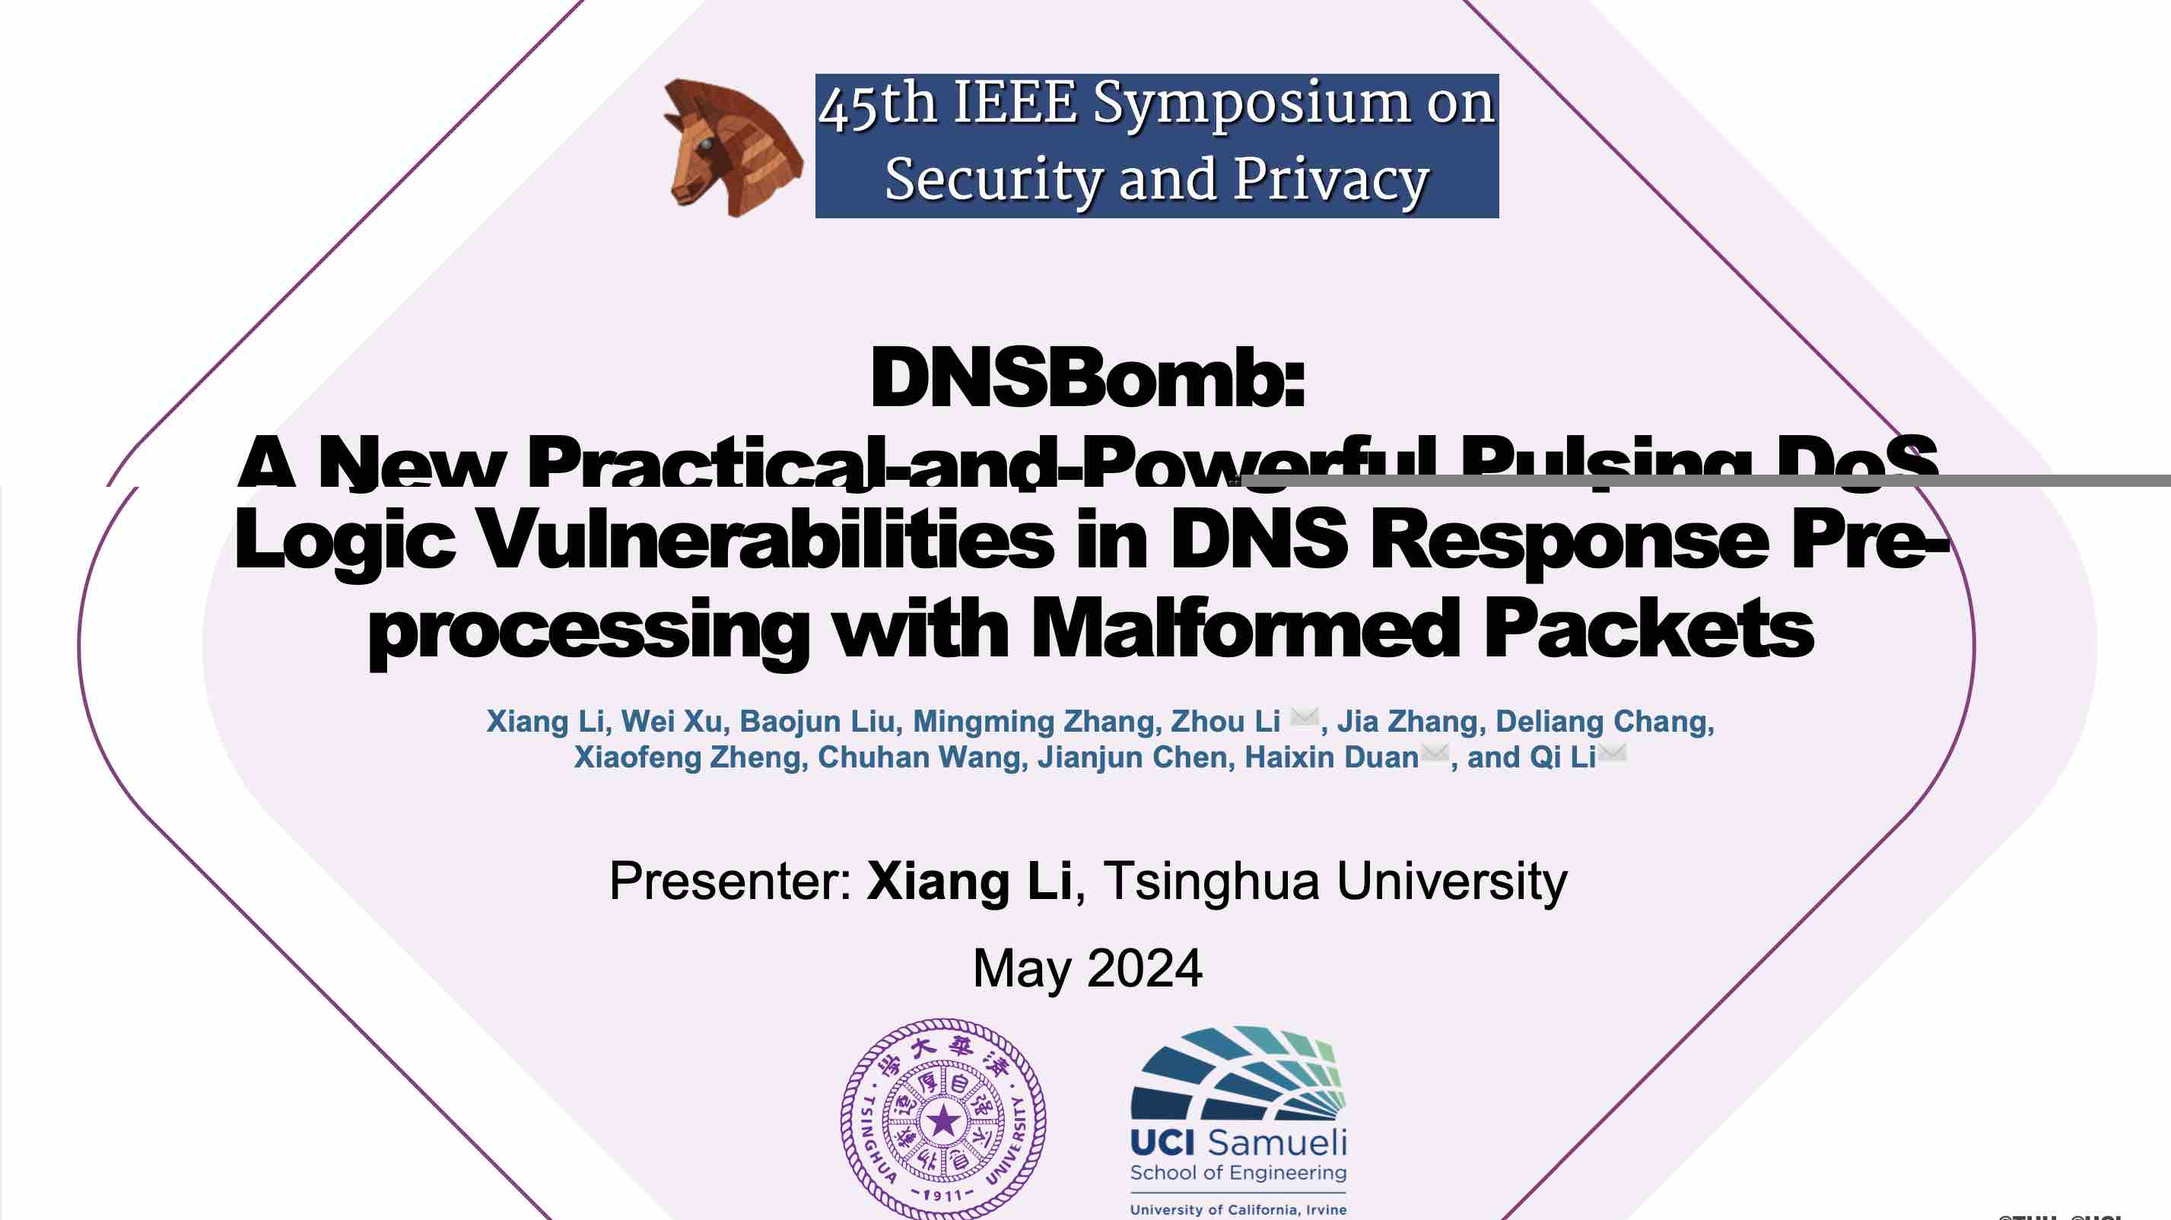
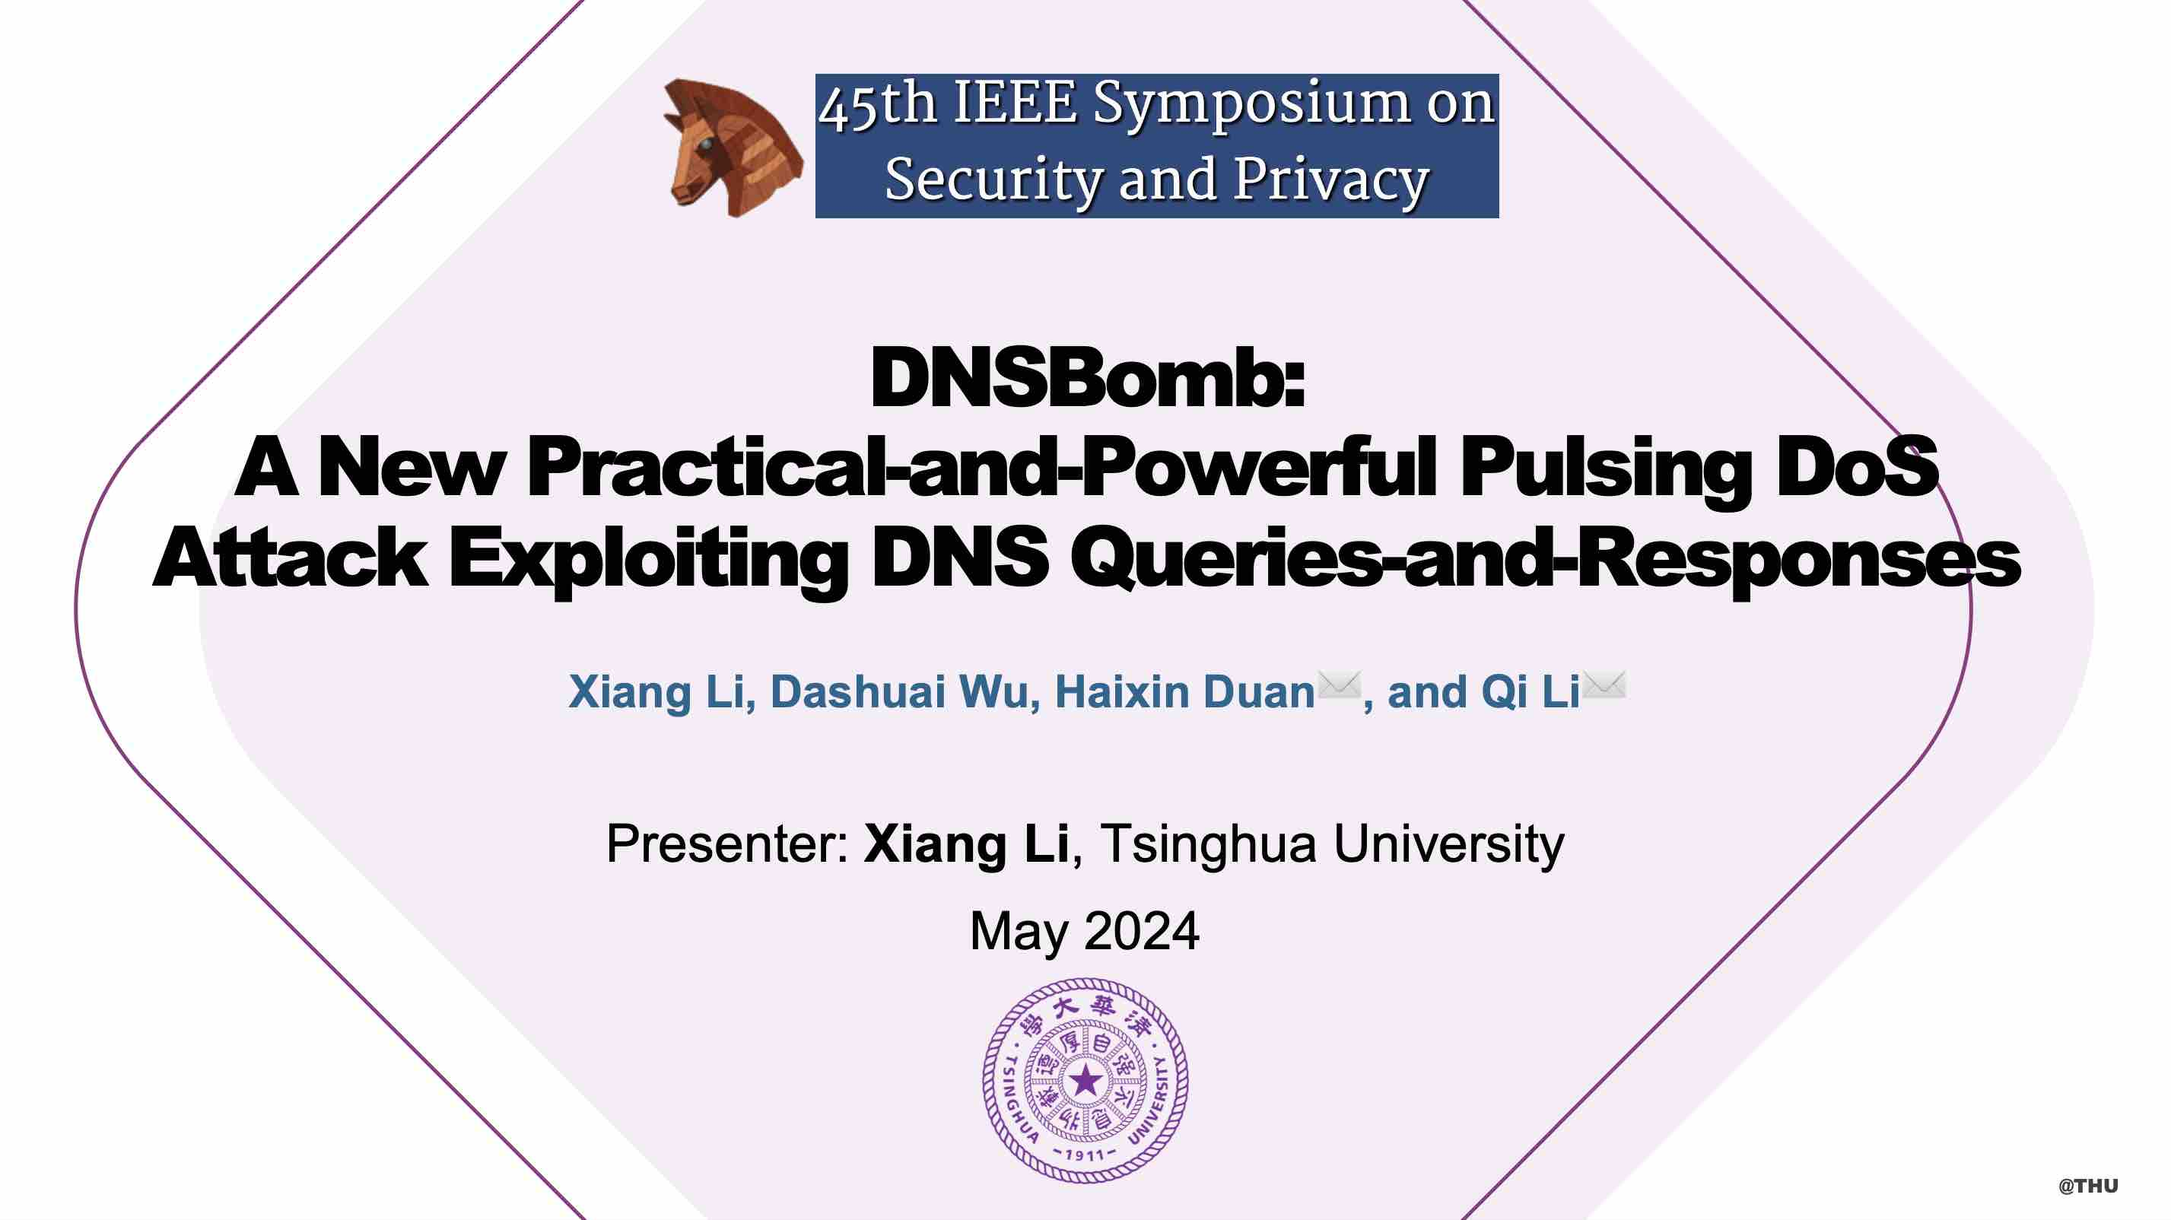
update pub. stat.

diff --git a/talk/45th-ieee-symposium-on-security-and-privacy-2024-ieee-sp-2024/index.html b/talk/45th-ieee-symposium-on-security-and-privacy-2024-ieee-sp-2024/index.html
@@ -272,7 +272,7 @@
 
   
 
-<meta name="description" content="In [45th IEEE Symposium on Security and Privacy 2024](https://sp2024.ieee-security.org/index.html), Fenglu presented our novel TuDoor attack on behalf of me cause I couldn&#39;t make it there." />
+<meta name="description" content="In [45th IEEE Symposium on Security and Privacy 2024](https://sp2024.ieee-security.org/index.html), Fenglu presented our novel DNSBomb attack on behalf of me cause I couldn&#39;t make it there." />
 
 
 
@@ -316,7 +316,7 @@
 <meta property="og:site_name" content="Xiang Li | 李想" />
 <meta property="og:url" content="https://lixiang521.com/talk/45th-ieee-symposium-on-security-and-privacy-2024-ieee-sp-2024/" />
 <meta property="og:title" content="45th IEEE Symposium on Security and Privacy 2024 | IEEE S&amp;P 2024 | Xiang Li | 李想" />
-<meta property="og:description" content="In [45th IEEE Symposium on Security and Privacy 2024](https://sp2024.ieee-security.org/index.html), Fenglu presented our novel TuDoor attack on behalf of me cause I couldn&#39;t make it there." /><meta property="og:image" content="https://lixiang521.com/talk/45th-ieee-symposium-on-security-and-privacy-2024-ieee-sp-2024/featured.jpg" /><meta property="og:locale" content="en-us" />
+<meta property="og:description" content="In [45th IEEE Symposium on Security and Privacy 2024](https://sp2024.ieee-security.org/index.html), Fenglu presented our novel DNSBomb attack on behalf of me cause I couldn&#39;t make it there." /><meta property="og:image" content="https://lixiang521.com/talk/45th-ieee-symposium-on-security-and-privacy-2024-ieee-sp-2024/featured.jpg" /><meta property="og:locale" content="en-us" />
 
   
     <meta
@@ -379,7 +379,7 @@
     "name": "Fenglu Zhang"
   },
   
-  "description": "In [45th IEEE Symposium on Security and Privacy 2024](https://sp2024.ieee-security.org/index.html), Fenglu presented our novel TuDoor attack on behalf of me cause I couldn't make it there."
+  "description": "In [45th IEEE Symposium on Security and Privacy 2024](https://sp2024.ieee-security.org/index.html), Fenglu presented our novel DNSBomb attack on behalf of me cause I couldn't make it there."
 }
 </script>
 
@@ -419,7 +419,7 @@
 </head>
 
 
-<body id="top" data-spy="scroll" data-offset="70" data-target="#TableOfContents" class="page-wrapper   " data-wc-page-id="e05079f5c464b403ce018a56a32de18e" >
+<body id="top" data-spy="scroll" data-offset="70" data-target="#TableOfContents" class="page-wrapper   " data-wc-page-id="06ce02b55c8dddf7d39f9a7a09b5051d" >
 
   
   
@@ -947,7 +947,7 @@
 
 
 
-<a class="btn btn-outline-primary btn-page-header" href="/publication/oakland24/sp24spring-tudoor-li.pdf" target="_blank" rel="noopener">
+<a class="btn btn-outline-primary btn-page-header" href="/publication/oakland24/sp24spring-dnsbomb-li.pdf" target="_blank" rel="noopener">
   PDF
 </a>
 
@@ -963,7 +963,7 @@
   
     
   
-<a class="btn btn-outline-primary btn-page-header" href="/publication/oakland24/sp2024-tudoor-poster.pdf" target="_blank" rel="noopener">
+<a class="btn btn-outline-primary btn-page-header" href="/publication/oakland24/sp2024-dnsbomb-poster.pdf" target="_blank" rel="noopener">
   Poster
 </a>
 
@@ -973,7 +973,7 @@
   
     
   
-<a class="btn btn-outline-primary btn-page-header" href="/publication/oakland24/sp2024-tudoor-slides.pdf" target="_blank" rel="noopener">
+<a class="btn btn-outline-primary btn-page-header" href="/publication/oakland24/sp2024-dnsbomb-slides.pdf" target="_blank" rel="noopener">
   Slides
 </a>
 
@@ -1003,9 +1003,9 @@
 </div>
 
 
-<div class="article-header article-container featured-image-wrapper mt-4 mb-4" style="max-width: 720px; max-height: 404px;">
+<div class="article-header article-container featured-image-wrapper mt-4 mb-4" style="max-width: 720px; max-height: 405px;">
   <div style="position: relative">
-    <img src="/talk/45th-ieee-symposium-on-security-and-privacy-2024-ieee-sp-2024/featured_huc82d7b839fc53b7a5c86bd3cdfedcac6_184831_720x2500_fit_q75_h2_lanczos.webp" width="720" height="404" alt="" class="featured-image">
+    <img src="/talk/45th-ieee-symposium-on-security-and-privacy-2024-ieee-sp-2024/featured_huc82d7b839fc53b7a5c86bd3cdfedcac6_161243_720x2500_fit_q75_h2_lanczos.webp" width="720" height="405" alt="" class="featured-image">
     
   </div>
 </div>
@@ -1016,7 +1016,7 @@
 
     
       <h3>Abstract</h3>
-      <p class="pub-abstract">DNS can be compared to a game of chess in that its rules are simple, yet the possibilities it presents are endless. While the fundamental rules of DNS are straightforward, DNS implementations can be extremely complex. In this study, we intend to explore the complexities and vulnerabilities in DNS response pre-processing by systematically analyzing DNS RFCs and DNS software implementations. We present the discovery of three new types of logic vulnerabilities, leading to the proposal of three novel attacks, namely the TuDoor attack. These attacks involve the use of malformed DNS response packets to carry out DNS cache poisoning, denial-of-service, and resource consuming attacks. By performing comprehensive experiments, we demonstrate the attack&rsquo;s feasibility and significant real-world impacts of TuDoor. In total, 24 mainstream DNS software, including BIND, PowerDNS, and Microsoft DNS, are affected by TuDoor. Attackers can instigate cache poisoning and denial-of-service attacks against vulnerable resolvers using a handful of crafted packets within 1 second or circumvent the query limit to deplete resolution resources (e.g., CPU). Besides, to determine the vulnerable resolver population in the wild, we collect and evaluate 16 popular Wi-Fi routers, 6 prevalent router OSes, 42 public DNS services, and around 1.8M open DNS resolvers. Our measurement results indicate that TuDoor could exploit 7 routers (OSes), 18 public DNS services, and 424,652 (23.1%) open DNS resolvers. Following the best practice of responsible disclosure, we have reported these vulnerabilities to all affected vendors, and 18 of them, including BIND, Chrome, Cloudflare, and Microsoft, have acknowledged our findings and discussed mitigation solutions with us. Furthermore, 33 CVE IDs are assigned to our discovered vulnerabilities, and we provide an online detection tool as one of the mitigation measures. Our research highlights the urgent need for standardization of DNS response pre-processing logic to enhance the security of DNS.</p>
+      <p class="pub-abstract">DNS employs a variety of mechanisms to guarantee availability, protect security, and enhance reliability. In this paper, however, we reveal that these inherent beneficial mechanisms, including timeout, query aggregation, and response fast-returning, can be transformed into malicious attack vectors. We propose a new practical and powerful pulsing DoS attack, dubbed the DNSBomb attack. DNSBomb exploits multiple widely-implemented DNS mechanisms to accumulate DNS queries that are sent at a low rate, amplify queries into large-sized responses, and concentrate all DNS responses into a short, high-volume periodic pulsing burst to simultaneously overwhelm target systems. Through an extensive evaluation on 10 mainstream DNS software, 46 public DNS services, and around 1.8M open DNS resolvers, we demonstrate all DNS resolvers could be exploited to conduct more practical-and-powerful DNSBomb attacks than previous pulsing DoS atttacks. Small-scale experiments show the peak pulse magnitude can approach 8.7Gb/s and the bandwidth amplification factor could exceed 20,000x. Our controlled attacks cause complete packet loss or service degradation on both stateless and stateful connections (TCP, UDP, and QUIC). In addition, we present effective mitigation solutions with detailed evaluations. We have responsibly reported our findings to all affected vendors, and received acknowledgement from 24 of them, which are patching their software using our solutions, such as BIND, Unbound, PowerDNS, and Knot. 10 CVE-IDs are assigned.</p>
     
 
     <div class="row">
@@ -1072,7 +1072,7 @@
     <div class="space-below"></div>
 
     <div class="article-style">
-      <p>In <a href="https://sp2024.ieee-security.org/index.html" target="_blank" rel="noopener">45th IEEE Symposium on Security and Privacy 2024</a>, Fenglu presented our novel TuDoor attack on behalf of me cause I couldn&rsquo;t make it there.</p>
+      <p>In <a href="https://sp2024.ieee-security.org/index.html" target="_blank" rel="noopener">45th IEEE Symposium on Security and Privacy 2024</a>, Fenglu presented our novel DNSBomb attack on behalf of me cause I couldn&rsquo;t make it there.</p>
 <h3 id="feedback-from-the-site">Feedback from the site</h3>
 <p>impressive! unbelievable! amazing!</p>
 
@@ -1444,6 +1444,40 @@
       </div>
       <div class="modal-footer">
         <a class="btn btn-outline-primary my-1 js-copy-cite" href="#" target="_blank">
+          <i class="fas fa-copy"></i> Copy
+        </a>
+        <a class="btn btn-outline-primary my-1 js-download-cite" href="#" target="_blank">
+          <i class="fas fa-download"></i> Download
+        </a>
+        <div id="modal-error"></div>
+      </div>
+    </div>
+  </div>
+</div>
+
+
+  <script src="/js/wowchemy-publication.68f8d7090562ca65fc6d3cb3f8f2d2cb.js" type="module"></script>
+
+
+
+
+
+
+
+
+
+
+
+
+
+
+
+
+
+
+</body>
+</html>
+="btn btn-outline-primary my-1 js-copy-cite" href="#" target="_blank">
           <i class="fas fa-copy"></i> Copy
         </a>
         <a class="btn btn-outline-primary my-1 js-download-cite" href="#" target="_blank">

diff --git a/zh/talk/45th-ieee-symposium-on-security-and-privacy-2024-ieee-sp-2024/index.html b/zh/talk/45th-ieee-symposium-on-security-and-privacy-2024-ieee-sp-2024/index.html
@@ -272,7 +272,7 @@
 
   
 
-<meta name="description" content="在[45th IEEE Symposium on Security and Privacy 2024](https://sp2024.ieee-security.org/index.html)会议上，丰露代替我汇报了TuDoor攻击。十分感谢！" />
+<meta name="description" content="在[45th IEEE Symposium on Security and Privacy 2024](https://sp2024.ieee-security.org/index.html)会议上，丰露代替我汇报了DNSBomb攻击。十分感谢！" />
 
 
 
@@ -316,7 +316,7 @@
 <meta property="og:site_name" content="李想 | Xiang Li" />
 <meta property="og:url" content="https://lixiang521.com/zh/talk/45th-ieee-symposium-on-security-and-privacy-2024-ieee-sp-2024/" />
 <meta property="og:title" content="45th IEEE Symposium on Security and Privacy 2024 | IEEE S&amp;P 2024 | 李想 | Xiang Li" />
-<meta property="og:description" content="在[45th IEEE Symposium on Security and Privacy 2024](https://sp2024.ieee-security.org/index.html)会议上，丰露代替我汇报了TuDoor攻击。十分感谢！" /><meta property="og:image" content="https://lixiang521.com/zh/talk/45th-ieee-symposium-on-security-and-privacy-2024-ieee-sp-2024/featured.jpg" /><meta property="og:locale" content="zh-Hans" />
+<meta property="og:description" content="在[45th IEEE Symposium on Security and Privacy 2024](https://sp2024.ieee-security.org/index.html)会议上，丰露代替我汇报了DNSBomb攻击。十分感谢！" /><meta property="og:image" content="https://lixiang521.com/zh/talk/45th-ieee-symposium-on-security-and-privacy-2024-ieee-sp-2024/featured.jpg" /><meta property="og:locale" content="zh-Hans" />
 
   
     <meta
@@ -379,7 +379,7 @@
     "name": "Fenglu Zhang"
   },
   
-  "description": "在[45th IEEE Symposium on Security and Privacy 2024](https://sp2024.ieee-security.org/index.html)会议上，丰露代替我汇报了TuDoor攻击。十分感谢！"
+  "description": "在[45th IEEE Symposium on Security and Privacy 2024](https://sp2024.ieee-security.org/index.html)会议上，丰露代替我汇报了DNSBomb攻击。十分感谢！"
 }
 </script>
 
@@ -419,7 +419,7 @@
 </head>
 
 
-<body id="top" data-spy="scroll" data-offset="70" data-target="#TableOfContents" class="page-wrapper   " data-wc-page-id="e05079f5c464b403ce018a56a32de18e" >
+<body id="top" data-spy="scroll" data-offset="70" data-target="#TableOfContents" class="page-wrapper   " data-wc-page-id="06ce02b55c8dddf7d39f9a7a09b5051d" >
 
   
   
@@ -947,7 +947,7 @@
 
 
 
-<a class="btn btn-outline-primary btn-page-header" href="/publication/oakland24/sp24spring-tudoor-li.pdf" target="_blank" rel="noopener">
+<a class="btn btn-outline-primary btn-page-header" href="/publication/oakland24/sp24spring-dnsbomb-li.pdf" target="_blank" rel="noopener">
   PDF
 </a>
 
@@ -963,7 +963,7 @@
   
     
   
-<a class="btn btn-outline-primary btn-page-header" href="/publication/oakland24/sp2024-tudoor-poster.pdf" target="_blank" rel="noopener">
+<a class="btn btn-outline-primary btn-page-header" href="/publication/oakland24/sp2024-dnsbomb-poster.pdf" target="_blank" rel="noopener">
   海报
 </a>
 
@@ -973,7 +973,7 @@
   
     
   
-<a class="btn btn-outline-primary btn-page-header" href="/publication/oakland24/sp2024-tudoor-slides.pdf" target="_blank" rel="noopener">
+<a class="btn btn-outline-primary btn-page-header" href="/publication/oakland24/sp2024-dnsbomb-slides.pdf" target="_blank" rel="noopener">
   演示文稿
 </a>
 
@@ -1003,9 +1003,9 @@
 </div>
 
 
-<div class="article-header article-container featured-image-wrapper mt-4 mb-4" style="max-width: 720px; max-height: 404px;">
+<div class="article-header article-container featured-image-wrapper mt-4 mb-4" style="max-width: 720px; max-height: 405px;">
   <div style="position: relative">
-    <img src="/zh/talk/45th-ieee-symposium-on-security-and-privacy-2024-ieee-sp-2024/featured_huc82d7b839fc53b7a5c86bd3cdfedcac6_184831_720x2500_fit_q75_h2_lanczos.webp" width="720" height="404" alt="" class="featured-image">
+    <img src="/zh/talk/45th-ieee-symposium-on-security-and-privacy-2024-ieee-sp-2024/featured_huc82d7b839fc53b7a5c86bd3cdfedcac6_161243_720x2500_fit_q75_h2_lanczos.webp" width="720" height="405" alt="" class="featured-image">
     
   </div>
 </div>
@@ -1016,7 +1016,7 @@
 
     
       <h3>摘要</h3>
-      <p class="pub-abstract">DNS can be compared to a game of chess in that its rules are simple, yet the possibilities it presents are endless. While the fundamental rules of DNS are straightforward, DNS implementations can be extremely complex. In this study, we intend to explore the complexities and vulnerabilities in DNS response pre-processing by systematically analyzing DNS RFCs and DNS software implementations. We present the discovery of three new types of logic vulnerabilities, leading to the proposal of three novel attacks, namely the TuDoor attack. These attacks involve the use of malformed DNS response packets to carry out DNS cache poisoning, denial-of-service, and resource consuming attacks. By performing comprehensive experiments, we demonstrate the attack&rsquo;s feasibility and significant real-world impacts of TuDoor. In total, 24 mainstream DNS software, including BIND, PowerDNS, and Microsoft DNS, are affected by TuDoor. Attackers can instigate cache poisoning and denial-of-service attacks against vulnerable resolvers using a handful of crafted packets within 1 second or circumvent the query limit to deplete resolution resources (e.g., CPU). Besides, to determine the vulnerable resolver population in the wild, we collect and evaluate 16 popular Wi-Fi routers, 6 prevalent router OSes, 42 public DNS services, and around 1.8M open DNS resolvers. Our measurement results indicate that TuDoor could exploit 7 routers (OSes), 18 public DNS services, and 424,652 (23.1%) open DNS resolvers. Following the best practice of responsible disclosure, we have reported these vulnerabilities to all affected vendors, and 18 of them, including BIND, Chrome, Cloudflare, and Microsoft, have acknowledged our findings and discussed mitigation solutions with us. Furthermore, 33 CVE IDs are assigned to our discovered vulnerabilities, and we provide an online detection tool as one of the mitigation measures. Our research highlights the urgent need for standardization of DNS response pre-processing logic to enhance the security of DNS.</p>
+      <p class="pub-abstract">DNS employs a variety of mechanisms to guarantee availability, protect security, and enhance reliability. In this paper, however, we reveal that these inherent beneficial mechanisms, including timeout, query aggregation, and response fast-returning, can be transformed into malicious attack vectors. We propose a new practical and powerful pulsing DoS attack, dubbed the DNSBomb attack. DNSBomb exploits multiple widely-implemented DNS mechanisms to accumulate DNS queries that are sent at a low rate, amplify queries into large-sized responses, and concentrate all DNS responses into a short, high-volume periodic pulsing burst to simultaneously overwhelm target systems. Through an extensive evaluation on 10 mainstream DNS software, 46 public DNS services, and around 1.8M open DNS resolvers, we demonstrate all DNS resolvers could be exploited to conduct more practical-and-powerful DNSBomb attacks than previous pulsing DoS atttacks. Small-scale experiments show the peak pulse magnitude can approach 8.7Gb/s and the bandwidth amplification factor could exceed 20,000x. Our controlled attacks cause complete packet loss or service degradation on both stateless and stateful connections (TCP, UDP, and QUIC). In addition, we present effective mitigation solutions with detailed evaluations. We have responsibly reported our findings to all affected vendors, and received acknowledgement from 24 of them, which are patching their software using our solutions, such as BIND, Unbound, PowerDNS, and Knot. 10 CVE-IDs are assigned.</p>
     
 
     <div class="row">
@@ -1072,7 +1072,7 @@
     <div class="space-below"></div>
 
     <div class="article-style">
-      <p>在<a href="https://sp2024.ieee-security.org/index.html" target="_blank" rel="noopener">45th IEEE Symposium on Security and Privacy 2024</a>会议上，丰露代替我汇报了TuDoor攻击。十分感谢！</p>
+      <p>在<a href="https://sp2024.ieee-security.org/index.html" target="_blank" rel="noopener">45th IEEE Symposium on Security and Privacy 2024</a>会议上，丰露代替我汇报了DNSBomb攻击。十分感谢！</p>
 <h3 id="现场反馈">现场反馈</h3>
 <p>impressive! unbelievable! amazing!</p>
 
